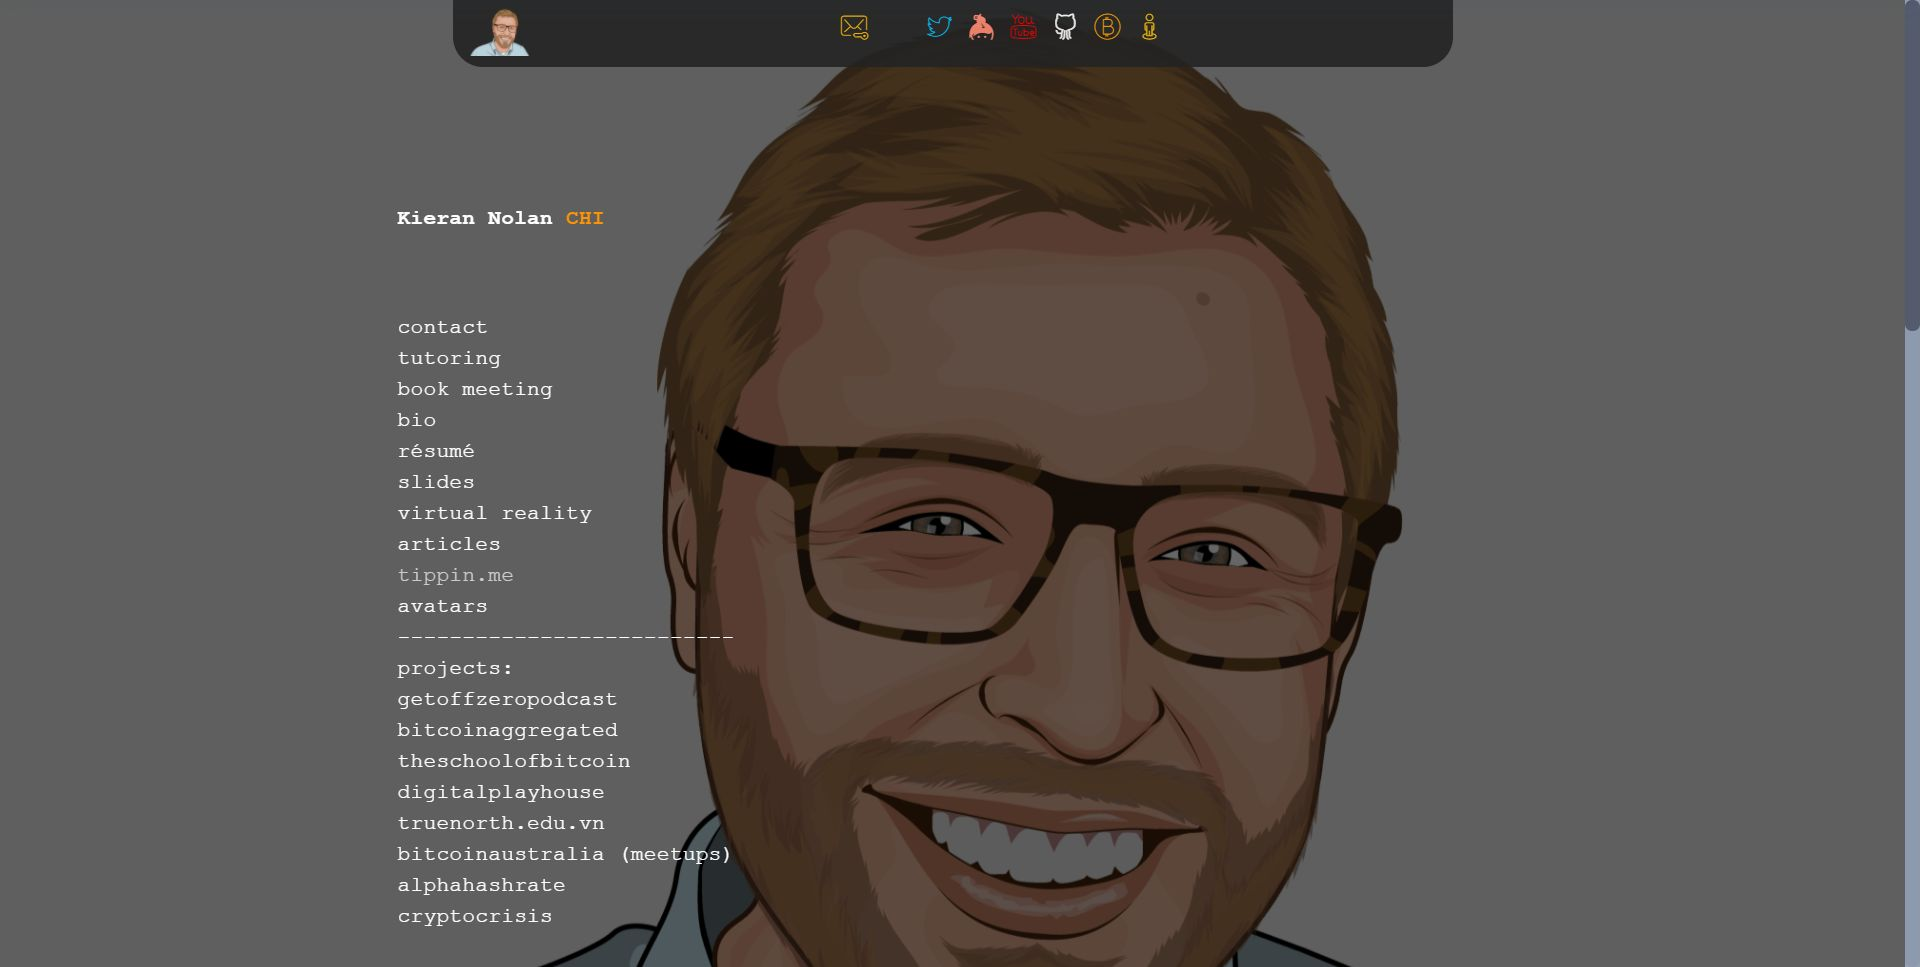
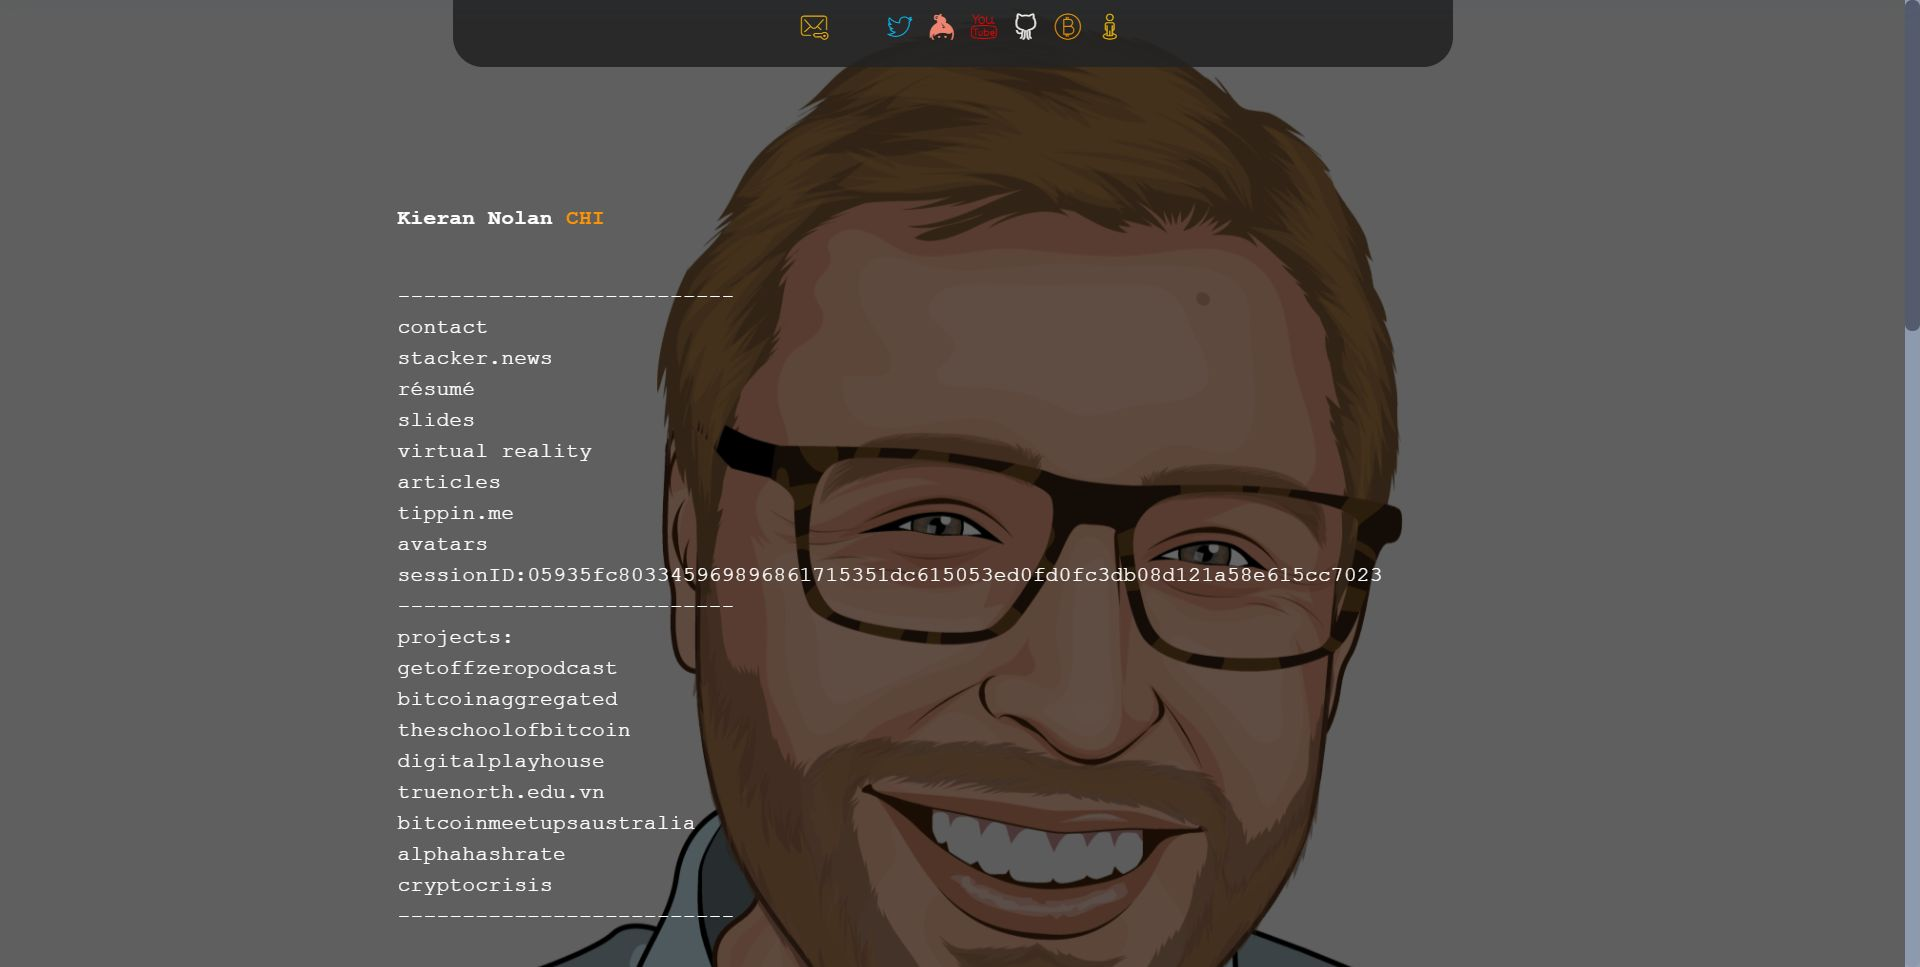
u[dates
updates

Changed region(s): [[0.2188, 0.3723, 0.7188, 0.9617], [0.4062, 0.0, 0.5938, 0.062], [0.25, 0.0, 0.2812, 0.062]]

diff --git a/index.html b/index.html
@@ -22,8 +22,8 @@
   <link rel="stylesheet" href="assets/bootstrap/css/bootstrap-grid.min.css">
   <link rel="stylesheet" href="assets/bootstrap/css/bootstrap-reboot.min.css">
   <link rel="stylesheet" href="assets/animatecss/animate.min.css">
-  <link rel="stylesheet" href="assets/popup-overlay-plugin/style.css">
-    <link rel="stylesheet" href="assets/smart-cart/minicart-theme.css">
+  <link rel="stylesheet" href="assets/smart-cart/minicart-theme.css">
+    <link rel="stylesheet" href="assets/popup-overlay-plugin/style.css">
   <link rel="stylesheet" href="assets/dropdown/css/style.css">
   <link rel="stylesheet" href="assets/socicon/css/styles.css">
   <link rel="stylesheet" href="assets/theme/css/style.css">
@@ -99,12 +99,12 @@
                 <div class="typed-text pb-3 display-5">
                     <span class="mbr-section-subtitle mbr-fonts-style mbr-white display-5"><strong><br></strong><br><br><br><br><strong>Kieran Nolan</strong></span>
                     <span>
-                      <span class="animated-element mbr-bold" data-word1="CHIEF BITCOIN OFFICER" data-word2="NEWS MANAGER &amp; PODCASTER" data-word3="EDUCATIONAL TECHNOLOGIST" data-speed="50">
+                      <span class="animated-element mbr-bold" data-word1="CHIEF BITCOIN OFFICER" data-word2="PODCASTER" data-word3="EDUCATIONAL TECHNOLOGIST" data-speed="50">
                       </span>
                     </span>
                 </div>
                 <p class="mbr-section-text mbr-fonts-style display-5"><a href="https://vida.page/kierandnolan" class="text-primary" target="_blank"><br></a>--------------------------
-<br><a href="https://vida.page/kierandnolan" class="text-primary" target="_blank">contact</a><br><a href="https://stacker.news/r/KieranDNolan" class="text-primary" target="_blank">stacker.news</a><a href="https://vida.page/kierandnolan" class="text-primary" target="_blank"><br></a><a href="https://docs.google.com/document/d/e/2PACX-1vSJ3lUSlqyzEbDo2WYMuaCoPWlIEa_Dltg2NgMmwRnxJEwSH9Kfty-wHGQbAZDOrDtfyUymXv8UziGx/pub" class="text-primary" target="_blank">résumé</a><br><a href="https://docs.google.com/presentation/d/17VgbEdmkydBphCaPF-fNZWcem_wUsqc7-zxOej7hY0I/edit?usp=sharing" class="text-primary" target="_blank">slides</a><br><strong><a href="VR.html" class="text-primary">virtual reality</a></strong><br><strong><a href="https://github.com/kdnolan/kdnolan.github.io/tree/master/articles" class="text-primary" target="_blank">articles</a></strong><br><strong><a href="https://tippin.me/@KieranDNolan" class="text-primary" target="_blank">tippin.me</a></strong><br><a href="https://github.com/kdnolan/kdnolan.github.io/tree/master/avatars" class="text-primary" target="_blank">avatars</a><br><a href="https://getsession.org/" class="text-primary" target="_blank">sessionID</a>:05935fc803345969896861715351dc615053ed0fd0fc3db08d121a58e615cc7023<a href="http://bafybeigejnwczpexdwlcv5ldelmmnzeetzqfltofsgaxxnuvoa5s5axo7q.ipfs.localhost:8080/" class="text-primary" target="_blank"><br></a>--------------------------<br>projects:<br><a href="https://getoffzeropod.com/" class="text-primary" target="_blank">getoffzeropodcast</a><br>bitcoinaggregated<a href="https://getoffzeropod.com/" class="text-primary" target="_blank"><br></a><a href="https://theschoolofbitcoin.com/" class="text-primary" target="_blank">theschoolofbitcoin</a><br><a href="https://www.digitalplayhouse.com.au/digital-playhouse-foundation" class="text-primary" target="_blank">digitalplayhouse</a>&nbsp;<br><a href="http://truenorth.edu.vn/our-school" class="text-primary" target="_blank">truenorth.edu.vn<br></a><a href="https://btcma.org/" class="text-primary" target="_blank">bitcoinmeetupsaustralia</a><a href="https://www.digitalplayhouse.com.au/digital-playhouse-foundation" class="text-primary" target="_blank"><br></a><a href="https://alphahashrate.com/" class="text-primary" target="_blank">alphahashrate</a><br><a href="https://store.steampowered.com/app/1022320/Crypto_Crisis_Education_Edition/" class="text-primary" target="_blank">cryptocrisis</a><br>--------------------------
+<br><a href="https://vida.page/kierandnolan" class="text-primary" target="_blank">contact</a>&nbsp;⚡<br><a href="https://stacker.news/KieranDNolan/posts" class="text-primary" target="_blank">stacker.news&nbsp;⚡<br></a><a href="https://docs.google.com/document/d/e/2PACX-1vSJ3lUSlqyzEbDo2WYMuaCoPWlIEa_Dltg2NgMmwRnxJEwSH9Kfty-wHGQbAZDOrDtfyUymXv8UziGx/pub" class="text-primary" target="_blank">résumé</a><br><a href="https://docs.google.com/presentation/d/17VgbEdmkydBphCaPF-fNZWcem_wUsqc7-zxOej7hY0I/edit?usp=sharing" class="text-primary" target="_blank">slides</a><br><strong><a href="VR.html" class="text-primary">virtual reality</a></strong><br><strong><a href="https://github.com/kdnolan/kdnolan.github.io/tree/master/articles" class="text-primary" target="_blank">articles</a></strong><br><strong><a href="https://tippin.me/@KieranDNolan" class="text-primary" target="_blank">tippin.me</a>&nbsp;</strong>⚡<br><a href="https://github.com/kdnolan/kdnolan.github.io/tree/master/avatars" class="text-primary" target="_blank">avatars</a><br><a href="https://astral.ninja/npub1cyla8qgt9gv8y6ydv8s2prt89h8afc0sr2kaz64ryjmlpdrzxm4qwlh53q" class="text-primary" target="_blank">nostr:npub1cyla8qgt9gv8y6ydv8s2prt89h8afc0sr2kaz64ryjmlpdrzxm4qwlh53q</a><br>--------------------------<br>projects:<br><a href="https://getoffzeropod.com/" class="text-primary" target="_blank">getoffzeropodcast</a><br>bitcoinaggregated<a href="https://getoffzeropod.com/" class="text-primary" target="_blank"><br></a><a href="https://theschoolofbitcoin.com/" class="text-primary" target="_blank">theschoolofbitcoin</a><br><a href="https://www.digitalplayhouse.com.au/digital-playhouse-foundation" class="text-primary" target="_blank">digitalplayhouse</a>&nbsp;<br><a href="http://truenorth.edu.vn/our-school" class="text-primary" target="_blank">truenorth.edu.vn<br></a><a href="https://btcma.org/" class="text-primary" target="_blank">bitcoinmeetupsaustralia</a><a href="https://www.digitalplayhouse.com.au/digital-playhouse-foundation" class="text-primary" target="_blank"><br></a><a href="https://alphahashrate.com/" class="text-primary" target="_blank">alphahashrate</a><br><a href="https://store.steampowered.com/app/1022320/Crypto_Crisis_Education_Edition/" class="text-primary" target="_blank">cryptocrisis</a><br>--------------------------
 <br><br><br><strong><a href="http://rocketshoes.io" class="text-primary" target="_blank"><br></a></strong><br><strong><a href="http://rocketshoes.io" class="text-primary" target="_blank"><br></a></strong><a href="http://kdnolan.hns.to" class="text-primary" target="_blank" style=""><br></a><br></p>
                 
             </div>
@@ -340,9 +340,9 @@
   <script src="assets/bootstrap/js/bootstrap.min.js"></script>
   <script src="assets/smoothscroll/smooth-scroll.js"></script>
   <script src="assets/viewportchecker/jquery.viewportchecker.js"></script>
-      <script src="assets/smart-cart/minicart.js"></script>
+  <script src="assets/smart-cart/minicart.js"></script>
   <script src="assets/smart-cart/minicart-customizer.js"></script>
-  <script src="assets/dropdown/js/nav-dropdown.js"></script>
+      <script src="assets/dropdown/js/nav-dropdown.js"></script>
   <script src="assets/dropdown/js/navbar-dropdown.js"></script>
   <script src="assets/touchswipe/jquery.touch-swipe.min.js"></script>
   <script src="assets/typed/typed.min.js"></script>

diff --git a/page2.html b/page2.html
@@ -20,9 +20,9 @@
   <link rel="stylesheet" href="assets/bootstrap/css/bootstrap-grid.min.css">
   <link rel="stylesheet" href="assets/bootstrap/css/bootstrap-reboot.min.css">
   <link rel="stylesheet" href="assets/animatecss/animate.min.css">
+    <link rel="stylesheet" href="assets/shopping-cart/minicart-theme.css">
   <link rel="stylesheet" href="assets/popup-overlay-plugin/style.css">
-  <link rel="stylesheet" href="assets/shopping-cart/minicart-theme.css">
-    <link rel="stylesheet" href="assets/dropdown/css/style.css">
+  <link rel="stylesheet" href="assets/dropdown/css/style.css">
   <link rel="stylesheet" href="assets/socicon/css/styles.css">
   <link rel="stylesheet" href="assets/theme/css/style.css">
   <link rel="preload" href="https://fonts.googleapis.com/css?family=VT323:400&display=swap" as="style" onload="this.onload=null;this.rel='stylesheet'">
@@ -192,9 +192,9 @@
   <script src="assets/bootstrap/js/bootstrap.min.js"></script>
   <script src="assets/smoothscroll/smooth-scroll.js"></script>
   <script src="assets/viewportchecker/jquery.viewportchecker.js"></script>
-  <script src="assets/shopping-cart/minicart.js"></script>
+      <script src="assets/shopping-cart/minicart.js"></script>
   <script src="assets/shopping-cart/minicart-customizer.js"></script>
-      <script src="assets/dropdown/js/nav-dropdown.js"></script>
+  <script src="assets/dropdown/js/nav-dropdown.js"></script>
   <script src="assets/dropdown/js/navbar-dropdown.js"></script>
   <script src="assets/touchswipe/jquery.touch-swipe.min.js"></script>
   <script src="assets/theme/js/script.js"></script>

diff --git a/music.html b/music.html
@@ -16,8 +16,8 @@
   <link rel="stylesheet" href="assets/bootstrap/css/bootstrap-grid.min.css">
   <link rel="stylesheet" href="assets/bootstrap/css/bootstrap-reboot.min.css">
   <link rel="stylesheet" href="assets/animatecss/animate.min.css">
-  <link rel="stylesheet" href="assets/popup-overlay-plugin/style.css">
-      <link rel="stylesheet" href="assets/theme/css/style.css">
+      <link rel="stylesheet" href="assets/popup-overlay-plugin/style.css">
+  <link rel="stylesheet" href="assets/theme/css/style.css">
   <link rel="preload" href="https://fonts.googleapis.com/css?family=VT323:400&display=swap" as="style" onload="this.onload=null;this.rel='stylesheet'">
   <noscript><link rel="stylesheet" href="https://fonts.googleapis.com/css?family=VT323:400&display=swap"></noscript>
   <link rel="preload" as="style" href="assets/mobirise/css/mbr-additional.css"><link rel="stylesheet" href="assets/mobirise/css/mbr-additional.css" type="text/css">

diff --git a/VR.html b/VR.html
@@ -20,8 +20,8 @@
   <link rel="stylesheet" href="assets/bootstrap/css/bootstrap-grid.min.css">
   <link rel="stylesheet" href="assets/bootstrap/css/bootstrap-reboot.min.css">
   <link rel="stylesheet" href="assets/animatecss/animate.min.css">
-  <link rel="stylesheet" href="assets/popup-overlay-plugin/style.css">
-      <link rel="stylesheet" href="assets/dropdown/css/style.css">
+      <link rel="stylesheet" href="assets/popup-overlay-plugin/style.css">
+  <link rel="stylesheet" href="assets/dropdown/css/style.css">
   <link rel="stylesheet" href="assets/socicon/css/styles.css">
   <link rel="stylesheet" href="assets/theme/css/style.css">
   <link rel="preload" href="https://fonts.googleapis.com/css?family=VT323:400&display=swap" as="style" onload="this.onload=null;this.rel='stylesheet'">
